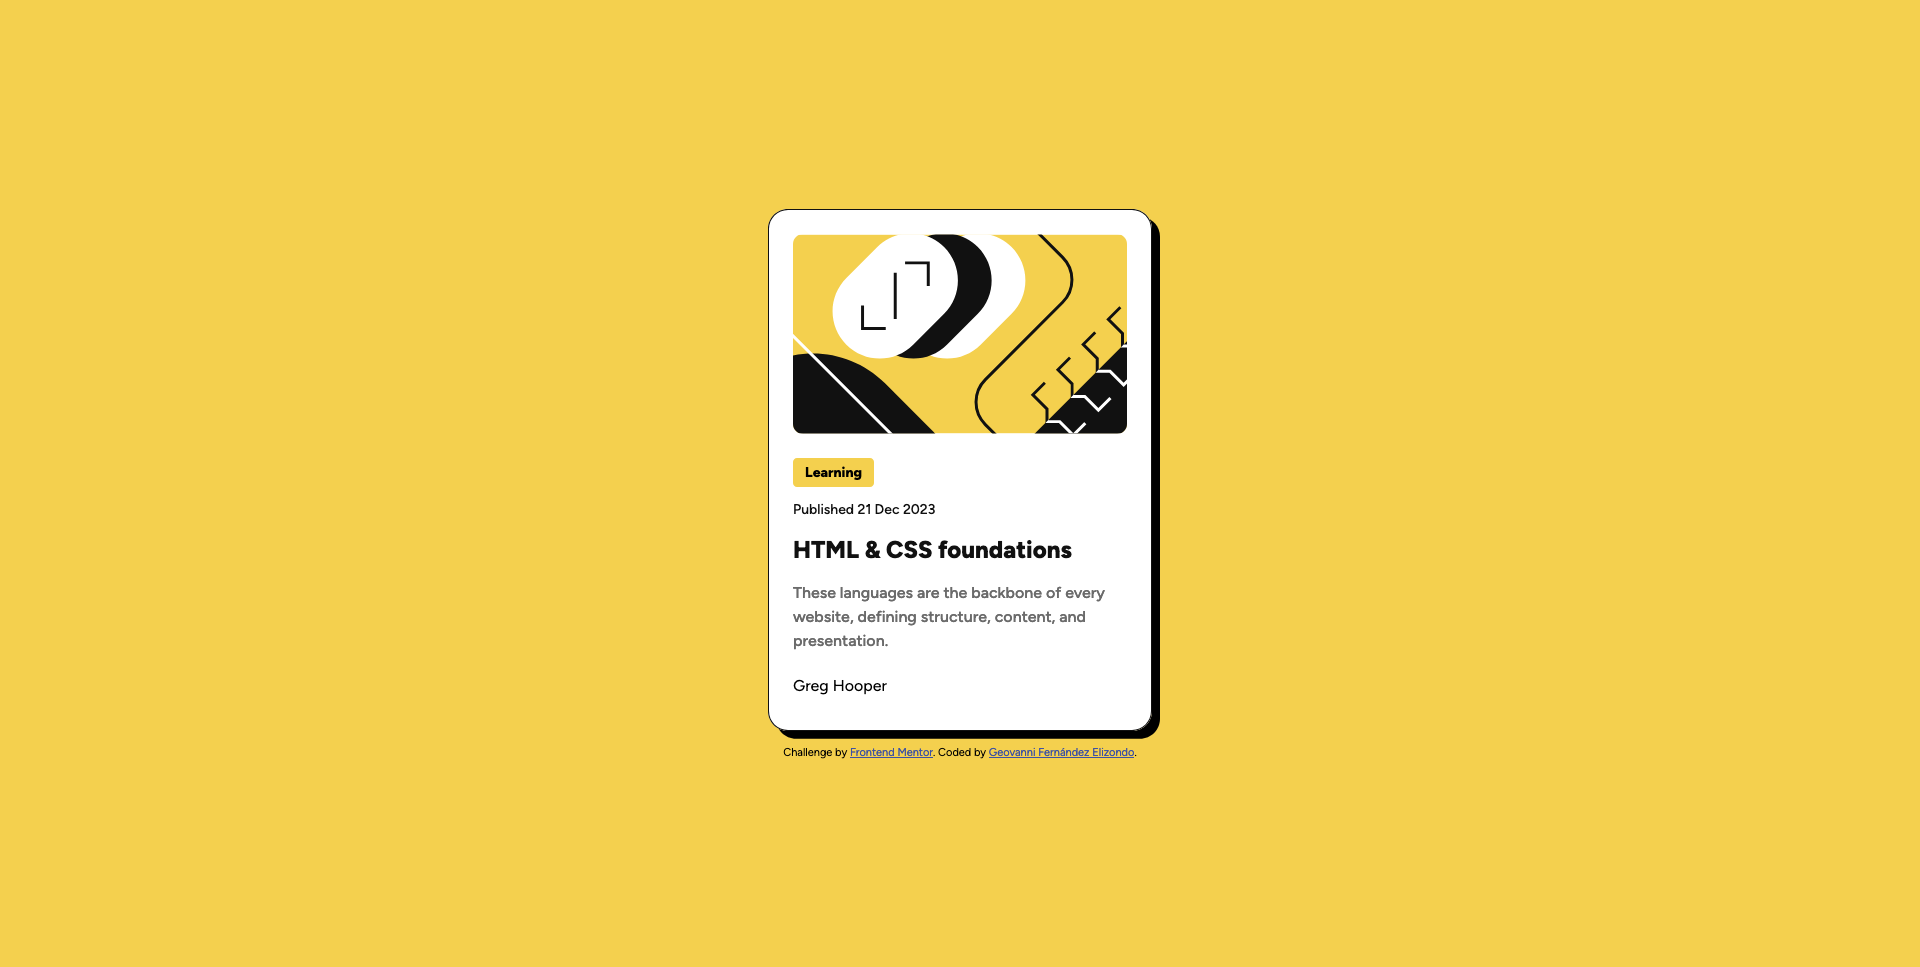
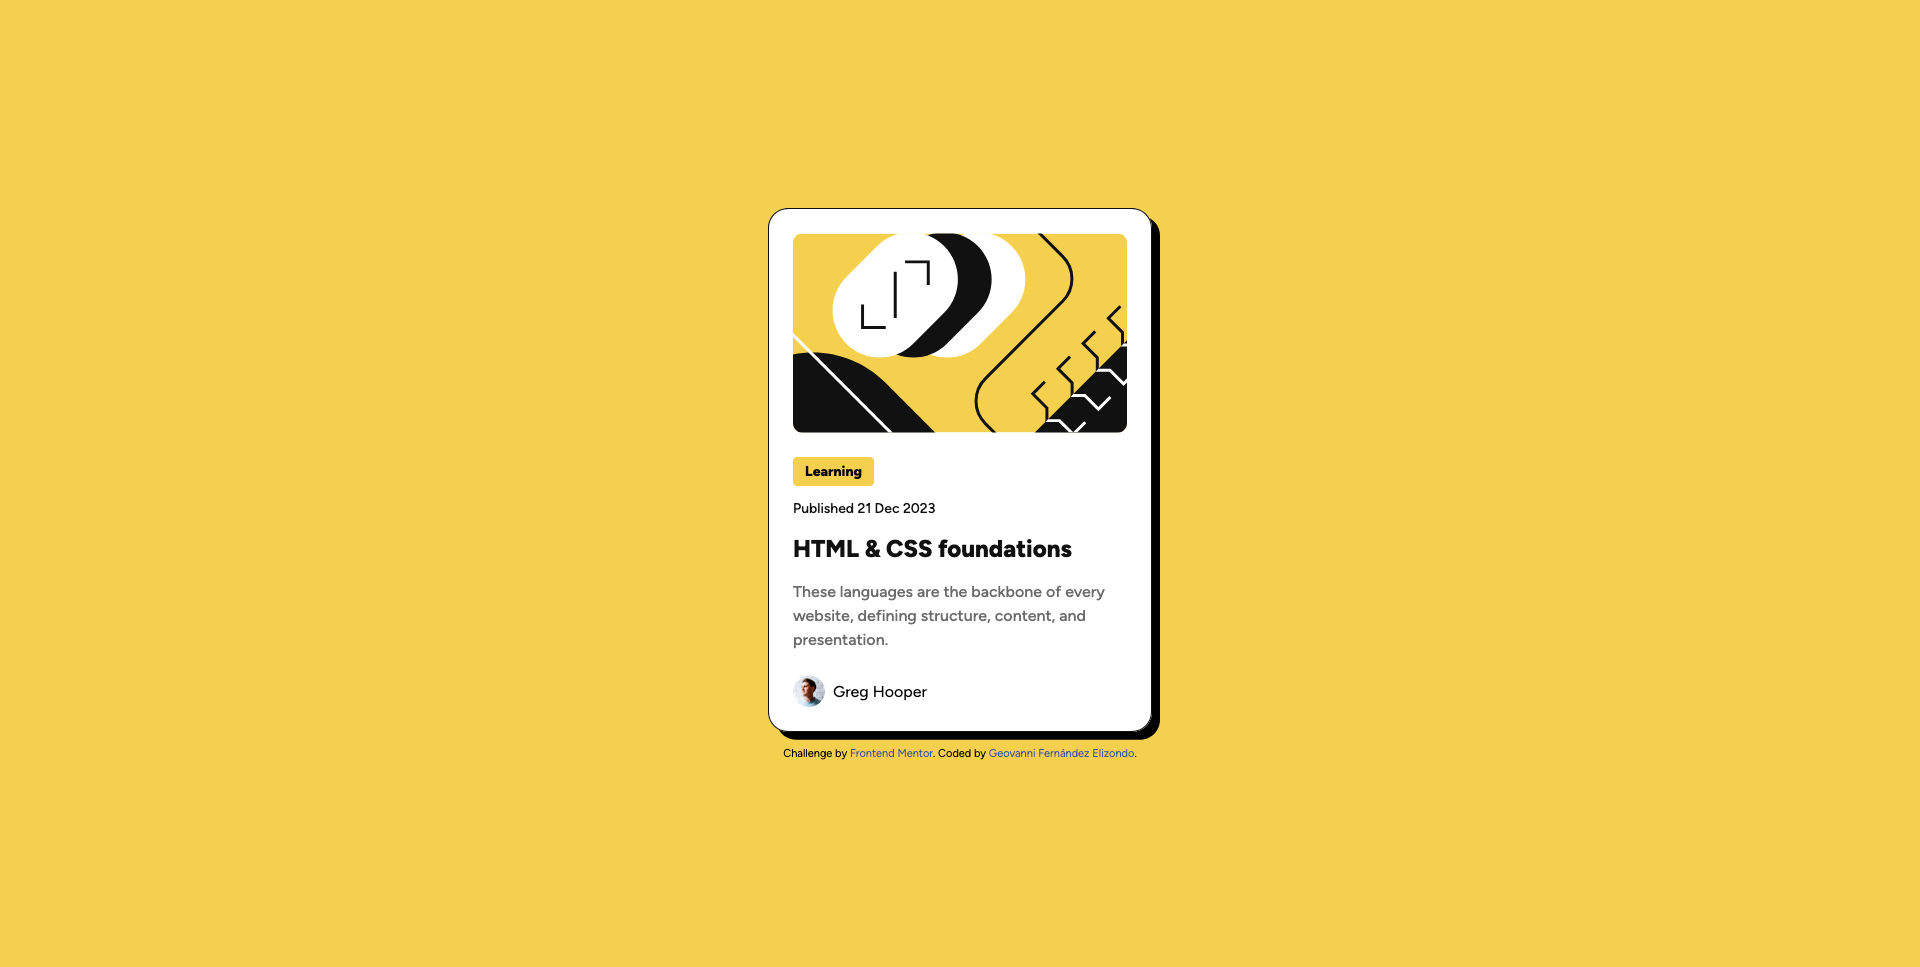
add author image

diff --git a/assets/css/styles.css b/assets/css/styles.css
@@ -119,7 +119,6 @@ a {
 .blog-card {
   background-color: var(--white);
   max-width: 32.7rem;
-  height: 50.1rem;
   margin-bottom: 1.5rem;
   padding: var(--spacing-200, 2.4rem);
   border: 1px solid var(--gray-950);
@@ -133,7 +132,7 @@ a {
 @media (min-width: 768px) {
   .blog-card {
     max-width: 38.4rem;
-    height: 52.2rem;
+    min-height: 52.2rem;
   }
 }
 
@@ -168,4 +167,18 @@ a {
 }
 .blog-card__description {
   color: var(--color-gray-500, #6b6b6b);
+}
+.blog-card__author {
+  display: flex;
+  align-items: center;
+  gap: var(--spacing-100, 8px);
+}
+.blog-card__author::before {
+  content: "";
+  width: 3.2rem;
+  height: 3.2rem;
+  background-image: url("/assets/images/image-avatar.webp");
+  background-repeat: no-repeat;
+  background-size: cover;
+  border-radius: 50%;
 }
